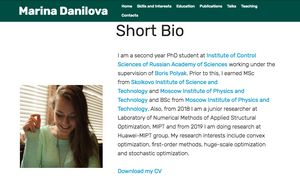
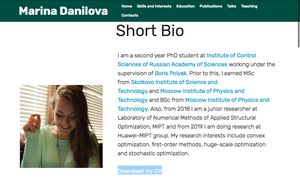
small

Changed region(s): [[0.99, 0.0, 1.0, 0.2703], [0.39, 0.8919, 0.54, 0.9459]]

diff --git a/index.html b/index.html
@@ -57,7 +57,7 @@
     </nav>
 </section>
 
-<section class="engine"><a href="https://mobirise.info">Mobirise</a></section><section class="header1 cid-rL81gymhFk" id="header16-a">
+<section class="engine"><a href="https://mobirise.info/j">website templates</a></section><section class="header1 cid-rL81gymhFk" id="header16-a">
 
     
 
@@ -88,7 +88,7 @@
               <img src="assets/images/avatar-1-1162x774.jpeg" alt="" title="">
             </div>
             <div class="media-content px-3 align-self-center mbr-white py-2">
-                    <p class="mbr-text testimonial-text mbr-fonts-style display-5"><span style="font-style: normal;">I am a second year PhD student at <a href="https://www.ipu.ru/en" target="_blank">Institute of Control Sciences of Russian Academy of Sciences</a> working under the supervision of <a href="http://lab7.ipu.ru/eng/people/polyak.html" target="_blank" class="text-primary">Boris Polyak</a>. Prior to this, I earned MSc from&nbsp;<a href="https://www.skoltech.ru/en/" target="_blank">Skolkovo Institute of Science and Technology</a>&nbsp;and&nbsp;<a href="https://mipt.ru/english/" target="_blank">Moscow Institute of Physics and Technology</a>&nbsp;and BSc from&nbsp;<a href="https://mipt.ru/english/" target="_blank">Moscow Institute of Physics and Technology</a>. Also, from 2018 I am a junior researcher at&nbsp;</span> <span style="font-style: normal;">Laboratory of Numerical Methods of Applied Structural Optimization, MIPT and from 2019 I am doing research at Huawei-MIPT group.&nbsp;My research interests include convex optimization, first-order methods, huge-scale optimization and stochastic optimization.<br><br><a href="assets/files/CV%20(1).pdf" target="_blank" class="text-primary">Download my CV</a></span></p>
+                    <p class="mbr-text testimonial-text mbr-fonts-style display-5"><span style="font-style: normal;">I am a second year PhD student at <a href="https://www.ipu.ru/en" target="_blank">Institute of Control Sciences of Russian Academy of Sciences</a> working under the supervision of <a href="http://lab7.ipu.ru/eng/people/polyak.html" target="_blank" class="text-primary">Boris Polyak</a>. Prior to this, I earned MSc from&nbsp;<a href="https://www.skoltech.ru/en/" target="_blank">Skolkovo Institute of Science and Technology</a>&nbsp;and&nbsp;<a href="https://mipt.ru/english/" target="_blank">Moscow Institute of Physics and Technology</a>&nbsp;and BSc from&nbsp;<a href="https://mipt.ru/english/" target="_blank">Moscow Institute of Physics and Technology</a>. Also, from 2018 I am a junior researcher at&nbsp;</span> <span style="font-style: normal;">Laboratory of Numerical Methods of Applied Structural Optimization, MIPT and from 2019 I am doing research at Huawei-MIPT group.&nbsp;My research interests include convex optimization, first-order methods, huge-scale optimization and stochastic optimization.<br><br><a href="assets/files/CV (1).pdf" target="_blank" class="text-primary">Download my CV</a></span></p>
                     <p class="mbr-author-name pt-4 mb-2 mbr-fonts-style display-7"></p>
                     <p class="mbr-author-desc mbr-fonts-style display-7"></p>
             </div>

diff --git a/teaching.html b/teaching.html
@@ -57,7 +57,7 @@
     </nav>
 </section>
 
-<section class="engine"><a href="https://mobirise.info/p">website templates free download</a></section><section class="header5 cid-rLBUkNq2n2" id="header5-19">
+<section class="engine"><a href="https://mobirise.info/x">css templates</a></section><section class="header5 cid-rLBUkNq2n2" id="header5-19">
 
     
 

diff --git a/publications.html b/publications.html
@@ -57,7 +57,7 @@
     </nav>
 </section>
 
-<section class="engine"><a href="https://mobirise.info/w">html5 templates</a></section><section class="header5 cid-rLBOwsRdZP" id="header5-15">
+<section class="engine"><a href="https://mobirise.info/f">easy website builder</a></section><section class="header5 cid-rLBOwsRdZP" id="header5-15">
 
     
 
